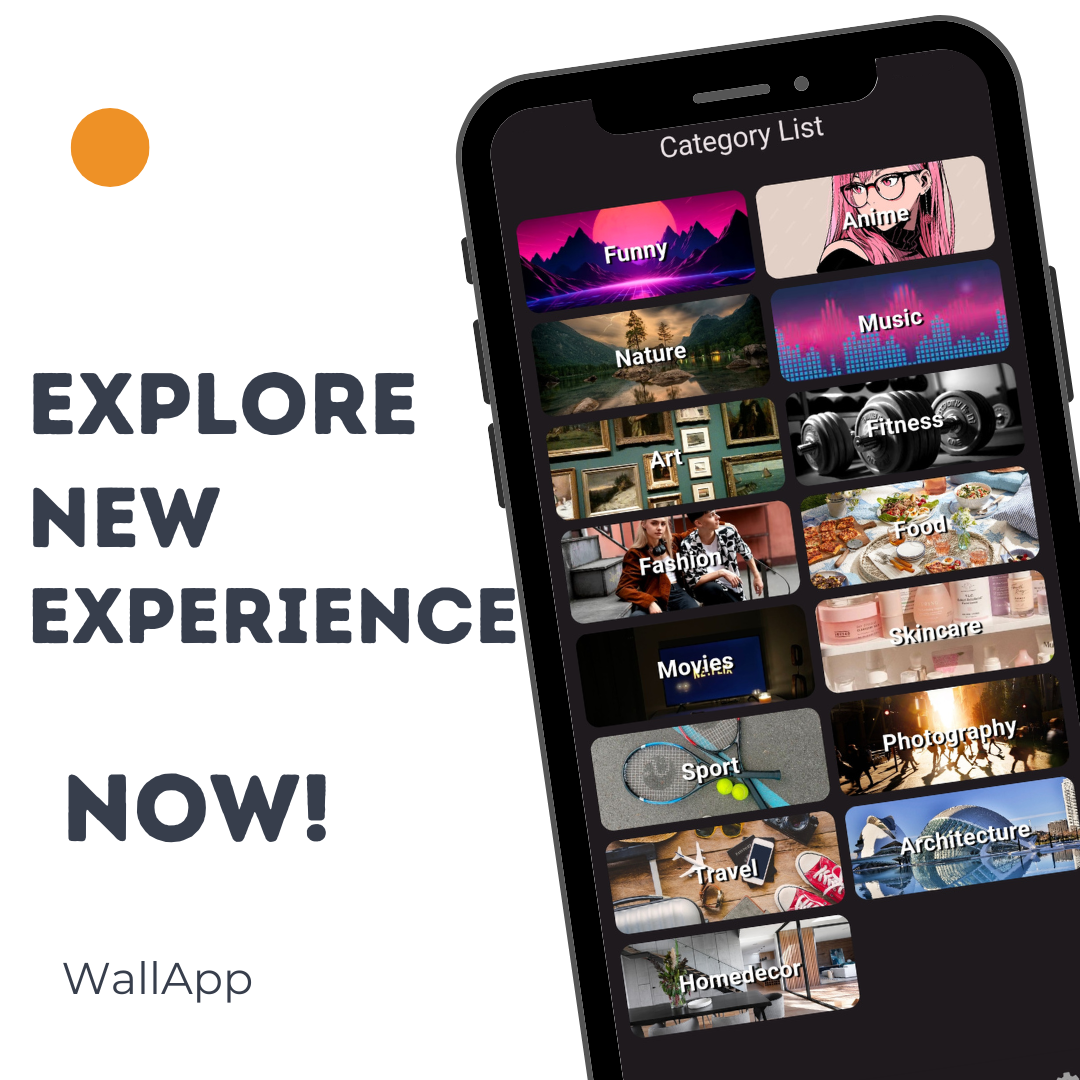
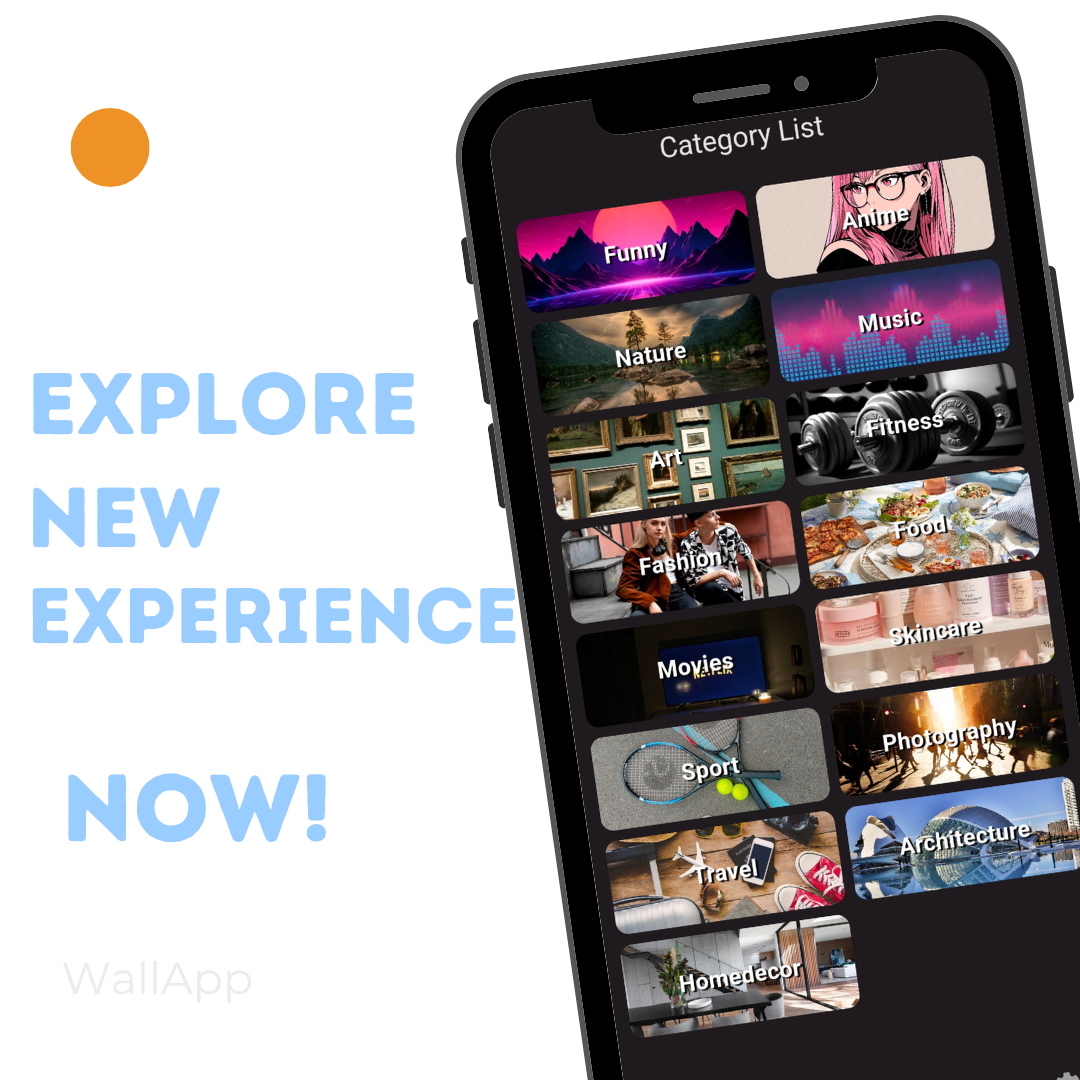
Update responsive mobile

Changed region(s): [[0.0306, 0.3361, 0.4889, 0.6111], [0.0611, 0.7028, 0.3056, 0.7944], [0.0611, 0.8861, 0.2444, 0.9472]]

diff --git a/public/assets/css/stylehome.css b/public/assets/css/stylehome.css
@@ -3,19 +3,36 @@
 body {
     font-family: "Maven Pro", sans-serif;
     font-weight: 600;
-    background-color: #8c86aa;
+    background-color: #1e1e1e;
 }
 /* Nav */
 .navbar {
     height: 70px;
+    background: #1e1e1e;
 }
 
 .navbar-brand {
     font-size: 1.5rem;
+    color: #ececec;
+    transition: all 0.2s ease-in-out;
+}
+
+.navbar-brand:hover {
+    color: #ececec;
+    transform: scale(1.1);
 }
 
 .navbar-nav {
     font-size: 1.1rem;
+}
+
+.button {
+    margin-left: -20px;
+    transition: all 0.2s ease-in-out;
+}
+
+.button:hover {
+    transform: scale(1.05);
 }
 
 /* Home */
@@ -32,6 +49,11 @@ body {
 
 .p-home {
     font-size: 20px;
+}
+
+section.home-card {
+    background-color: #1e1e1e;
+    color: #ececec;
 }
 
 section.home-card .home-text {
@@ -60,7 +82,7 @@ section.home-card .text-bottom {
 /* Testimoni */
 section.testimoni {
     min-height: 70vh;
-    background-color: #f0f4ef;
+    background-color: #ececec;
     margin-top: 40px;
 }
 
@@ -90,6 +112,7 @@ section.testimoni {
 .testimoni-text-h {
     font-weight: 600;
     font-size: 35px;
+    margin-top: -6%;
     margin-bottom: 25px;
     text-align: center;
 }
@@ -106,6 +129,7 @@ section.category .home-text {
     font-weight: 800;
     font-size: 35px;
     margin-top: 300px;
+    color: #ececec;
 }
 
 .img-ctgr {
@@ -116,7 +140,7 @@ section.category .home-text {
 section.footer {
     margin-top: 30px;
     min-height: 30vh;
-    background-color: black;
+    background-color: #111111;
 }
 
 .title {
@@ -142,4 +166,51 @@ section.footer {
 
 .footer hr {
     border-top: 1px solid #dee2e6;
+}
+
+.title {
+    font-weight: bold;
+    text-decoration: underline;
+    font-size: 20px;
+}
+
+@media (min-width: 320px) and (max-width: 1024px) {
+    .navbar {
+        padding-left: 22%;
+    }
+    .landing-mobile {
+        margin-top: -45%;
+    }
+    .landing-mobile .button {
+        padding-left: 10px;
+    }
+    .landing-phone {
+        margin-left: -5%;
+    }
+    .landing-carousel {
+        position: relative;
+        margin-top: 50px;
+    }
+    .category {
+        margin-top: -55%;
+    }
+    .footer {
+        text-align: center;
+    }
+
+    .footer .title,
+    .footer .link {
+        margin: auto;
+    }
+
+    .footer .text-team {
+        text-align: center;
+        margin: auto;
+        margin-bottom: 20px;
+    }
+
+    .footer-trademark {
+        margin: auto;
+        margin-bottom: 20px;
+    }
 }

diff --git a/resources/views/pages/home.blade.php b/resources/views/pages/home.blade.php
@@ -6,30 +6,18 @@
     <meta name="viewport" content="width=device-width, initial-scale=1">
     <meta http-equiv="X-UA-Compatible" content="ie=edge">
     <title>Wallpaper App | UAS Project | FE</title>
-
     <link href="https://cdn.jsdelivr.net/npm/bootstrap@5.3.2/dist/css/bootstrap.min.css" rel="stylesheet"
         integrity="sha384-T3c6CoIi6uLrA9TneNEoa7RxnatzjcDSCmG1MXxSR1GAsXEV/Dwwykc2MPK8M2HN" crossorigin="anonymous">
     <script src="https://cdn.jsdelivr.net/npm/bootstrap@5.3.2/dist/js/bootstrap.bundle.min.js"
         integrity="sha384-C6RzsynM9kWDrMNeT87bh95OGNyZPhcTNXj1NW7RuBCsyN/o0jlpcV8Qyq46cDfL" crossorigin="anonymous">
     </script>
-
     <link rel="stylesheet" href="{{ asset('assets/css/stylehome.css') }}" />
-
 </head>
-
 <body>
     {{-- Navbar --}}
     <nav class="navbar navbar-expand-lg">
         <div class="container">
-            <a class="navbar-brand" href="#home">Wallpaper APP</a>
-            <button class="navbar-toggler" type="button" data-bs-toggle="collapse" data-bs-target="#navbarNavAltMarkup"
-                aria-controls="navbarNavAltMarkup" aria-expanded="false" aria-label="Toggle navigation">
-                <span class="navbar-toggler-icon"></span>
-            </button>
-            <div class="collapse navbar-collapse" id="navbarNavAltMarkup">
-                <div class="ms-auto navbar-nav">
-                    <a class="nav-link active" aria-current="page" href="#home">Home</a>
-                </div>
+            <a class="navbar-brand " href="#home">Wallpaper APP</a>          
             </div>
         </div>
     </nav>
@@ -37,12 +25,12 @@
     {{-- Home --}}
     <section class="home-card" id="home">
         <div class="container">
-            <div class="row">
+            <div class="row landing-mobile">
                 <div class="col-md-6">
                     <div class="home-text slideright">WallApp,<div>Everything you'll need.</div>
                     </div>
-                    <p class="text-p1">We provide a variety of wallpapers that you can choose from.</p>
-                    <div class="ms-3">Download Now:</div>
+                    <p class="text">We provide a variety of wallpapers that you can choose from.</p>
+                    <div class="ms">Download Now:</div>
                     <div class="button">
                         <a href="https://github.com/kilyfa/FE_WallpaperApp_UAS" class="btn-outline-secondary mt-2"><img
                                 class=" download-img" src="{{ asset('assets/image/get-it-on-github.png') }}"
@@ -50,7 +38,7 @@
                     </div>
 
                 </div>
-                <div class="col-md-6">
+                <div class="col-md-6 landing-phone">
                     <div>
                         <img src="assets/image/home-phone.png" alt="home" class="img-card mt-5">
                     </div>
@@ -64,45 +52,40 @@
         <div class="container">
             <div class="row">
                 <div class="testimoni-card">
-                    <div class="testimoni-text-h">Testimoni</div>
+                    <div class="testimoni-text-h">Features</div>
                     <div class="carousel-container">
                         <div id="carouselExampleDark" class="carousel carousel-dark slide" data-bs-ride="carousel">
                             <div class="carousel-inner">
                                 <div class="carousel-item active" data-bs-interval="10000">
-                                    <div>"Lorem ipsum dolor sit amet consectetur, adipisicing elit. Ut sapiente,
-                                        molestias natus repellendus laudantium provident dignissimos quibusdam soluta.
-                                        Soluta eos obcaecati dolor, praesentium facilis necessitatibus laboriosam
-                                        placeat. Ad, eaque nihil!</div>
+                                    <div>Kami berusaha menyediakan Wallpapers dengan resolusi full HD yang dapat memukau mata.</div>
                                     <div class="carousel-user-testi">
-                                        Alex
+                                        High Resolution
                                     </div>
                                 </div>
                                 <div class="carousel-item" data-bs-interval="2000">
-                                    <div>"Lorem ipsum dolor sit, amet consectetur adipisicing elit. Assumenda suscipit
-                                        natus excepturi nesciunt nemo. Ut quibusdam, eveniet magni deserunt molestias
-                                        alias perferendis aliquam inventore repudiandae ipsa quia ratione facere
-                                        voluptate.</div>
+                                    <div>Dapatkan pengalaman mengunduh yang mudah dan cepat dengan aplikasi kami.</div>
                                     <div class="carousel-user-testi">
-                                        Chris
+                                        Mudah diunduh
                                     </div>
                                 </div>
                                 <div class="carousel-item">
-                                    <div>"Lorem, ipsum dolor sit amet consectetur adipisicing elit. Natus asperiores vel
-                                        nihil earum iusto labore veniam ipsa quisquam odit, corrupti eligendi quod
-                                        similique voluptas! Harum magnam voluptates veritatis earum velit?</div>
+                                    <div>Aplikasi kami memberikan pengalaman tanpa gangguan, bebas iklan.</div>
                                     <div class="carousel-user-testi">
-                                        Jessica
+                                        Tanpa iklan
                                     </div>
                                 </div>
                             </div>
-                            <div class="carousel-indicators">
-                                <button type="button" data-bs-target="#carouselExampleDark" data-bs-slide-to="0"
-                                    class="active" aria-current="true" aria-label="Slide 1"></button>
-                                <button type="button" data-bs-target="#carouselExampleDark" data-bs-slide-to="1"
-                                    aria-label="Slide 2"></button>
-                                <button type="button" data-bs-target="#carouselExampleDark" data-bs-slide-to="2"
-                                    aria-label="Slide 3"></button>
+                            <div class="landing-carousel">
+                                <div class="carousel-indicators">
+                                    <button type="button" data-bs-target="#carouselExampleDark" data-bs-slide-to="0"
+                                        class="active" aria-current="true" aria-label="Slide 1"></button>
+                                    <button type="button" data-bs-target="#carouselExampleDark" data-bs-slide-to="1"
+                                        aria-label="Slide 2"></button>
+                                    <button type="button" data-bs-target="#carouselExampleDark" data-bs-slide-to="2"
+                                        aria-label="Slide 3"></button>
+                                </div>
                             </div>
+
                         </div>
                     </div>
                 </div>
@@ -130,13 +113,13 @@
             <div class="col-md-3"></div>
             <div class="col-md-2 mt-5">
                 <div class="title">Get our app</div>
-                <div class=""> <a class="link" href="https://github.com/kilyfa/FE_WallpaperApp_UAS">Github</a></div>
+                <div class=""> <a class="link" href="https://github.com/kilyfa/FE_WallpaperApp_UAS" style="text-decoration: underline;">Github</a></div>
             </div>
             <div class="col-md-2 mt-5">
                 <div class="title">Our Github</div>
                 <div class="">
-                    <div><a class="link" href="https://github.com/kilyfa/FE_WallpaperApp_UAS">Front End Github</a></div>
-                    <div><a class="link" href="https://github.com/rojakkurniawan/BE_WallpaperApp_UAS">Back End Github</a></div>
+                    <div><a class="link" href="https://github.com/kilyfa/FE_WallpaperApp_UAS" style="text-decoration: underline;">Front End Github</a></div>
+                    <div><a class="link" href="https://github.com/rojakkurniawan/BE_WallpaperApp_UAS" style="text-decoration: underline;">Back End Github</a></div>
                 </div>
             </div>
             <div class="col-md-2 mt-5">
